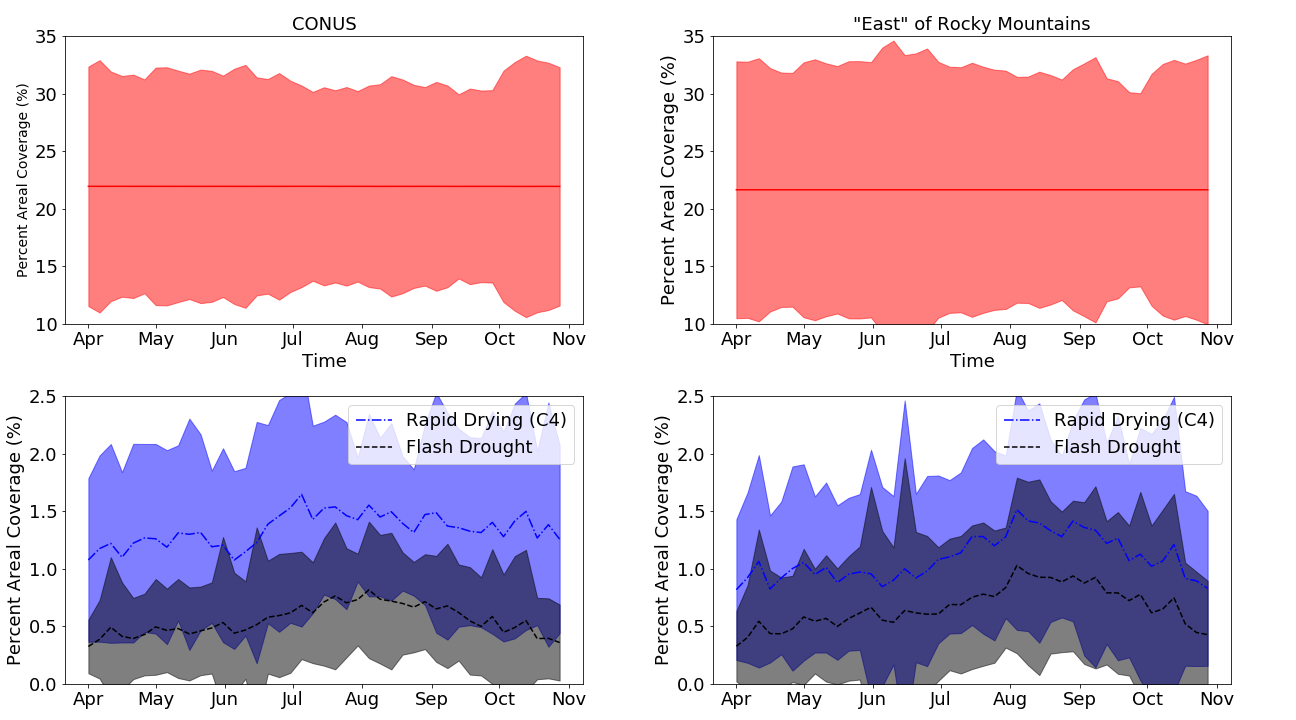
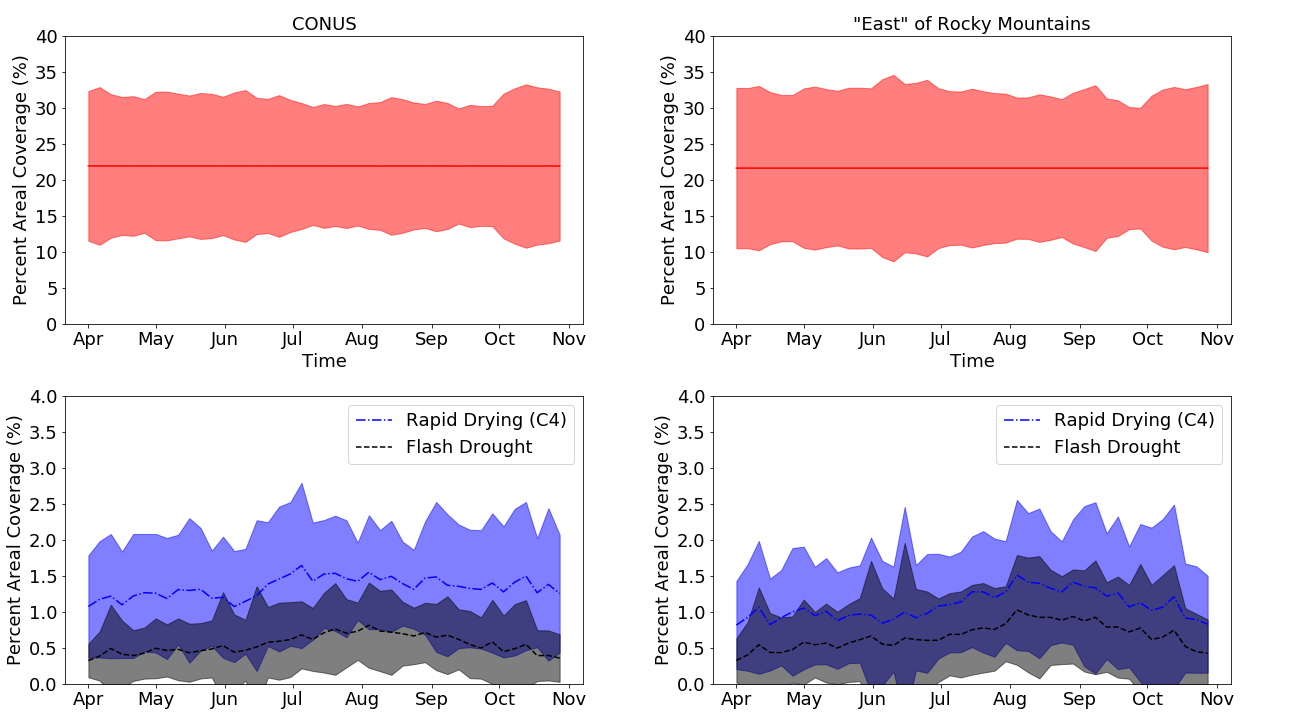
Made some changes based on suggestions to the climatology time series figure.

diff --git a/Scripts/Criteria_Analysis.py b/Scripts/Criteria_Analysis.py
@@ -1323,13 +1323,13 @@ ax1.fill_between(FD['ymd'][tmpind], perDC-DCstd, perDC+DCstd, alpha = 0.5, edgec
 
 # Set the axis labels
 ax1.set_xlabel('Time', size = 18)
-ax1.set_ylabel('Percent Areal Coverage (%)', size = 14)
+ax1.set_ylabel('Percent Areal Coverage (%)', size = 18)
 
 # Set the ticks
 ax1.xaxis.set_major_formatter(DateFMT)
 #ax1.set_yticks(np.round(np.arange(21.900, 22.00, 0.020), 2))
-ax1.set_yticks(np.round(np.arange(10.00, 36.00, 5.00), 2))
-ax1.set_ylim([10, 35])
+ax1.set_yticks(np.round(np.arange(0.00, 42.00, 5.00), 2))
+ax1.set_ylim([0, 40])
 
 for i in ax1.xaxis.get_ticklabels() + ax1.yaxis.get_ticklabels():
     i.set_size(18)
@@ -1353,8 +1353,8 @@ ax3.set_ylabel('Percent Areal Coverage (%)', size = 18)
 
 # Set the ticks
 ax3.xaxis.set_major_formatter(DateFMT)
-ax3.set_yticks(np.round(np.arange(0, 2.6, 0.5), 1))
-ax3.set_ylim([0, 2.5])
+ax3.set_yticks(np.round(np.arange(0, 5.1, 0.5), 1))
+ax3.set_ylim([0, 4.0])
 
 for i in ax3.xaxis.get_ticklabels() + ax3.yaxis.get_ticklabels():
     i.set_size(18)
@@ -1382,8 +1382,8 @@ ax2.set_ylabel('Percent Areal Coverage (%)', size = 18)
 # Set the ticks
 ax2.xaxis.set_major_formatter(DateFMT)
 #ax2.set_yticks(np.round(np.arange(21.630, 21.675, 0.01), 2))
-ax2.set_yticks(np.round(np.arange(10.00, 36.00, 5.00), 2))
-ax2.set_ylim([10, 35])
+ax2.set_yticks(np.round(np.arange(0.00, 42.00, 5.00), 2))
+ax2.set_ylim([0, 40])
 
 for i in ax2.xaxis.get_ticklabels() + ax2.yaxis.get_ticklabels():
     i.set_size(18)
@@ -1411,8 +1411,8 @@ ax4.set_ylabel('Percent Areal Coverage (%)', size = 18)
 
 # Set the ticks
 ax4.xaxis.set_major_formatter(DateFMT)
-ax4.set_yticks(np.round(np.arange(0, 2.6, 0.5), 1))
-ax4.set_ylim([0, 2.5])
+ax4.set_yticks(np.round(np.arange(0, 5.1, 0.5), 1))
+ax4.set_ylim([0, 4.0])
 
 for i in ax4.xaxis.get_ticklabels() + ax4.yaxis.get_ticklabels():
     i.set_size(18)
